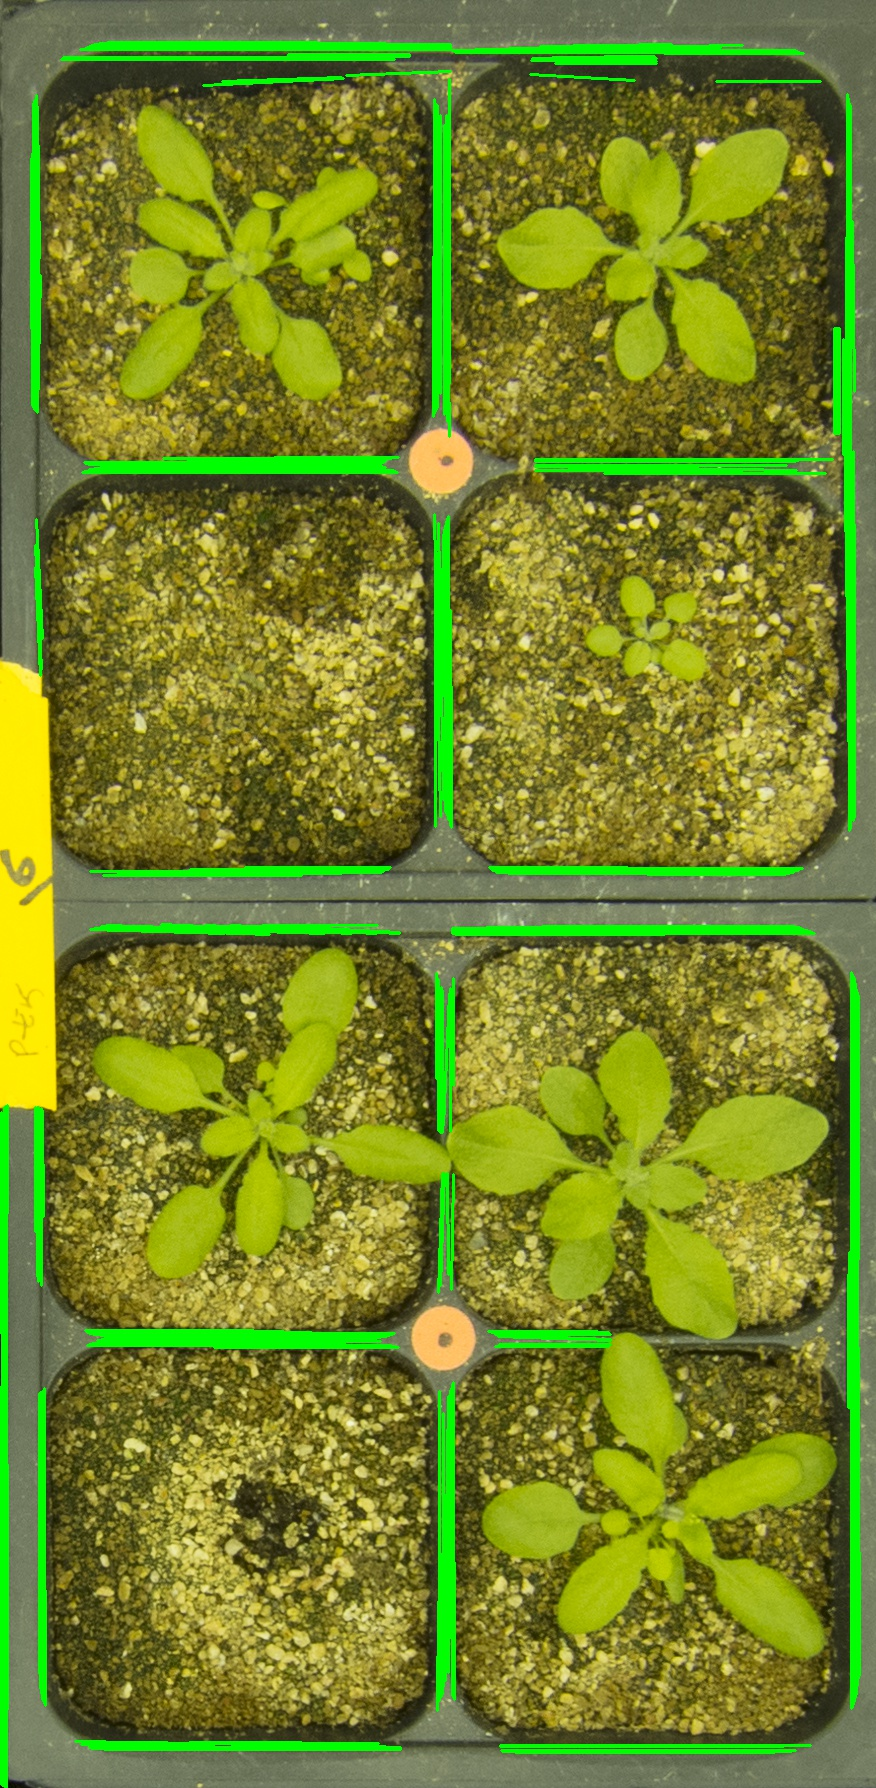
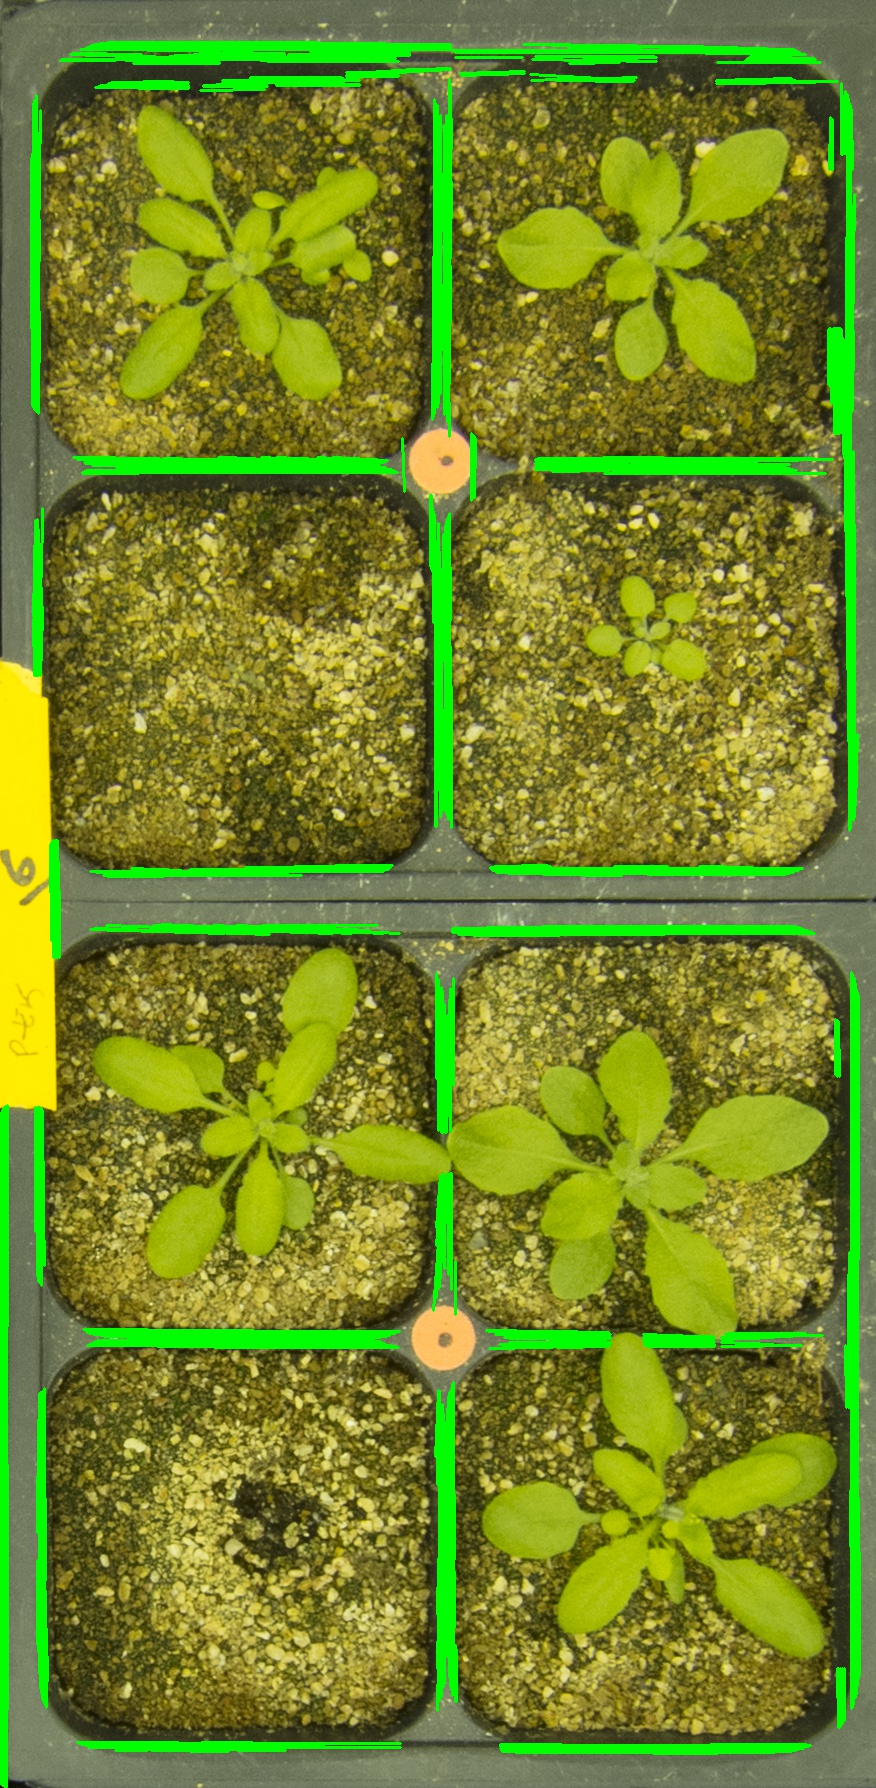
adjust parameters for line finder

diff --git a/scripts/pot_lines.py b/scripts/pot_lines.py
@@ -44,8 +44,8 @@ for rho,theta in lines[0]:
     cv2.line(input_copy1,(x1,y1),(x2,y2),(0,0,255),2)
 cv2.imshow("input_copy1",input_copy1)
 
-minLineLength = 2000
-maxLineGap = 100
+minLineLength = 4000
+maxLineGap = 50
 lines = cv2.HoughLinesP(dilation,1,np.pi/180,100,minLineLength,maxLineGap)
 for x1,y1,x2,y2 in lines[0]:
     cv2.line(input_copy2,(x1,y1),(x2,y2),(0,255,0),2)
